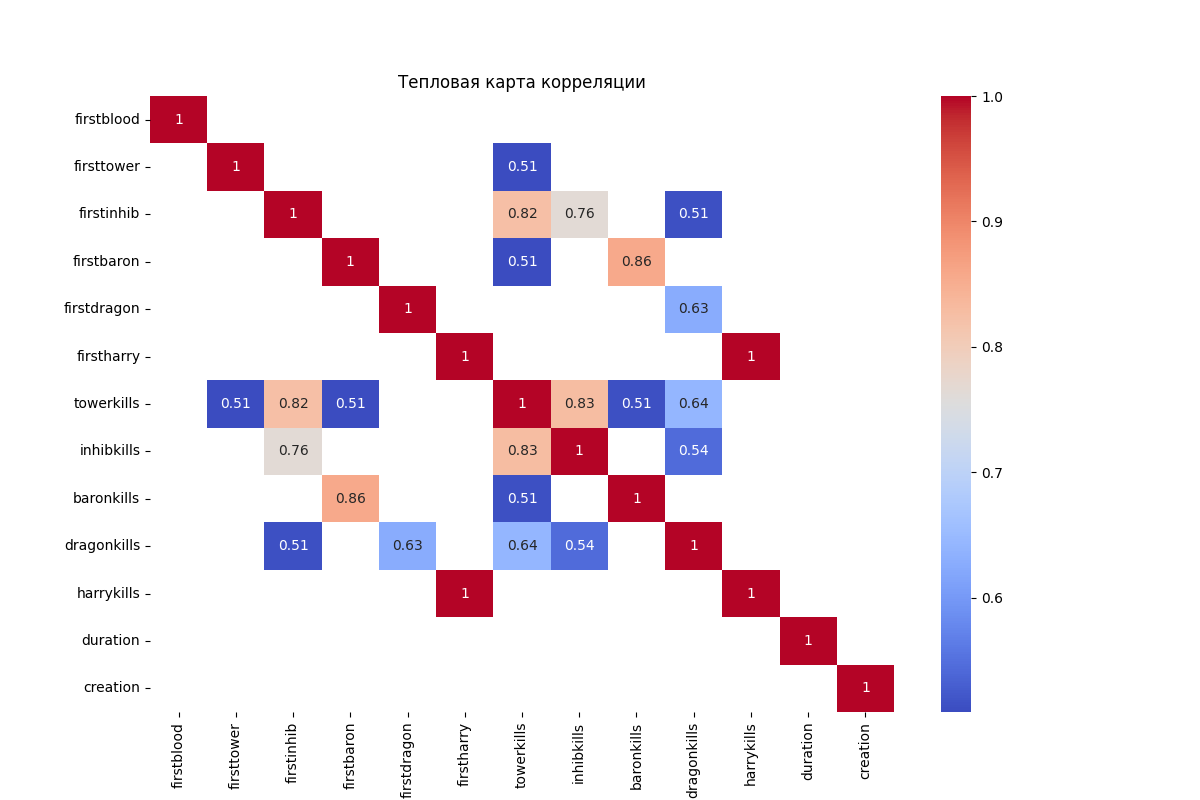
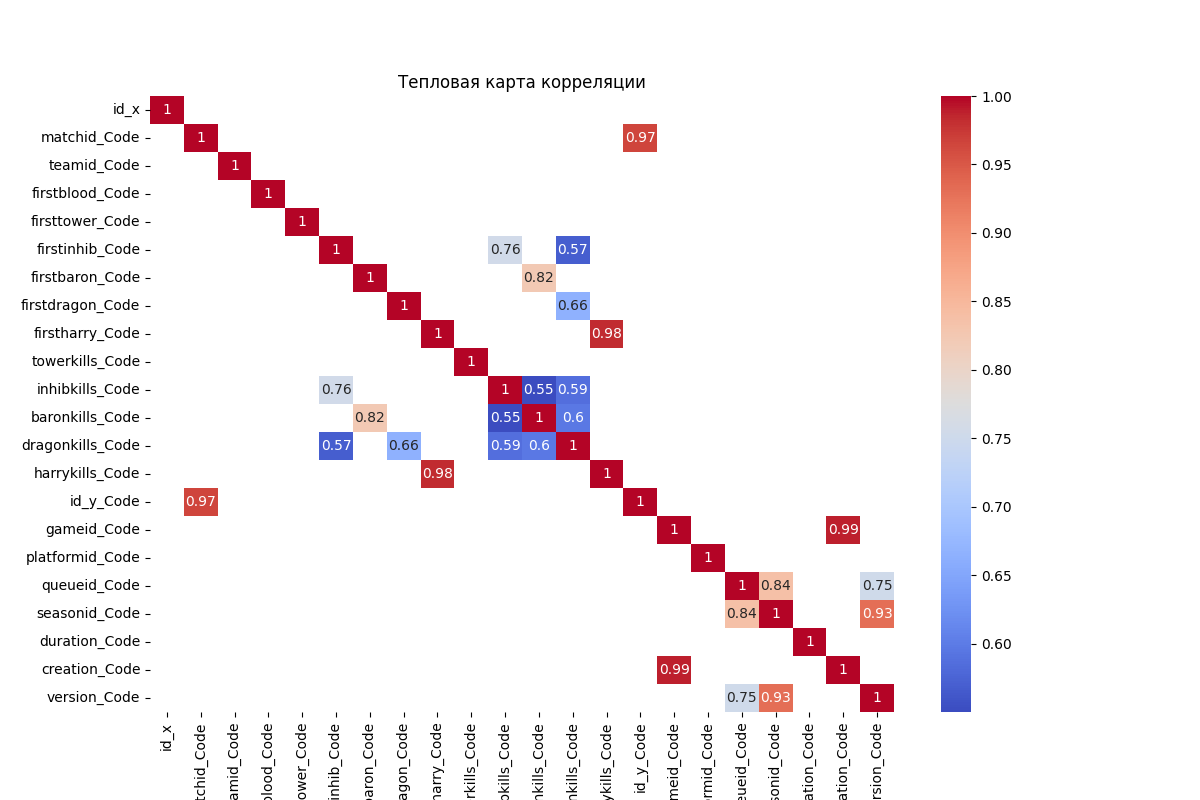
statistic cahracteristics

diff --git a/DS/web/templates/select_columns.html b/DS/web/templates/select_columns.html
@@ -1,43 +1,75 @@
-<!doctype html>
+<!DOCTYPE html>
 <html lang="en">
 <head>
-    <meta charset="utf-8">
-    <title>Select Columns</title>
+    <meta charset="UTF-8">
+    <meta name="viewport" content="width=device-width, initial-scale=1.0">
+    <title>Выбор столбцов</title>
 </head>
 <body>
-    <h1>Выберите числовые поля из {{ table }}</h1>
-    <form action="/plot" method="post">
+    <h1>Столбцы таблицы: {{ table }}</h1>
+    <form method="POST" action="/plot">
+        <label for="columns">Выберите столбцы для графика:</label><br>
+
+            {% for column, stats in statistics.items() %}
+                <input type="checkbox" name="columns" value="{{ column }}">{{ column }}<br>
+            {% endfor %}
+        <br><br>
+        
         <input type="hidden" name="table" value="{{ table }}">
-        <table>
-            <tr>
-                <td>
-                    <strong>Not IDs</strong><br>
-                    {% for column in not_ids %}
-                        <input type="checkbox" name="columns" value="{{ column }}">{{ column }}<br>
-                    {% endfor %}
-                </td>
-                <td>
-                    <strong>IDs</strong><br>
-                    {% for column in ids %}
-                        <input type="checkbox" name="columns" value="{{ column }}">{{ column }}<br>
-                    {% endfor %}
-                </td>
-            </tr>
-        </table>
-        {% if heatmap %}
-            <input type="submit" value="Построить график">
-        {% endif %}
+        <input type="submit">Построить график</button>
     </form>
+
+    <h2>Статистические характеристики столбцов:</h2>
+    <table border="1">
+        <thead>
+            <tr>
+                <th>Столбец</th>
+                <th>Доля пропусков</th>
+                <th>Макс.</th>
+                <th>Мин.</th>
+                <th>Среднее</th>
+                <th>Медиана</th>
+                <th>Дисперсия</th>
+                <th>Квантиль 0.1</th>
+                <th>Квантиль 0.9</th>
+                <th>Квартиль 1</th>
+                <th>Квартиль 3</th>
+                <th>Уникальные значения</th>
+                <th>Мода</th>
+            </tr>
+        </thead>
+        <tbody>
+            {% for column, stats in statistics.items() %}
+                <tr>
+                    <td>{{ column }}</td>
+                    <td>
+                        {% if stats.missing_ratio is not none %}
+                            {{ "{:.2f}".format(stats.missing_ratio) }}
+                        {% else %}
+                            -
+                        {% endif %}
+                    </td>
+                    <td>{{ stats.max if stats.max is not none else '-' }}</td>
+                    <td>{{ stats.min if stats.min is not none else '-' }}</td>
+                    <td>{{ stats.mean if stats.mean is not none else '-' }}</td>
+                    <td>{{ stats.median if stats.median is not none else '-' }}</td>
+                    <td>{{ stats.variance if stats.variance is not none else '-' }}</td>
+                    <td>{{ stats.quantile_0_1 if stats.quantile_0_1 is not none else '-' }}</td>
+                    <td>{{ stats.quantile_0_9 if stats.quantile_0_9 is not none else '-' }}</td>
+                    <td>{{ stats.quartile_1 if stats.quartile_1 is not none else '-' }}</td>
+                    <td>{{ stats.quartile_3 if stats.quartile_3 is not none else '-' }}</td>
+                    <td>{{ stats.unique_count if 'unique_count' in stats else '-' }}</td>
+                    <td>{{ stats.mode if 'mode' in stats else '-' }}</td>
+                </tr>
+            {% endfor %}
+        </tbody>
+    </table>
+
     {% if heatmap %}
-        <h2>Тепловая карта корреляции</h2>
-        <img src="{{ heatmap }}" alt="Correlation Heatmap">
-    {% else %}
-        <div>
-            Числовые поля не были найдены
-        </div>
+        <h2>Тепловая карта корреляции:</h2>
+        <img src="{{ heatmap }}" alt="Тепловая карта корреляции">
     {% endif %}
 
-    <br>
-    <a href="/">Назад к таблицам</a>
+    <a href="/">Вернуться на главную</a>
 </body>
 </html>

diff --git a/DS/web/main.py b/DS/web/main.py
@@ -1,3 +1,4 @@
+from sklearn.calibration import LabelEncoder
 from flask import Flask, render_template, request
 import psycopg2
 import pandas as pd
@@ -12,7 +13,7 @@ def create_app():
         connection = psycopg2.connect(
             user = 'postgres',
             password = '123Secret_a',
-            host = 'postgres',
+            host = 'localhost',
             port = '5432',
             database = 'loldb'
         )
@@ -47,36 +48,80 @@ def create_app():
         table_name = request.form['table']
         df = dataframes[table_name]
         
-        numeric = {str(x):False for x in df.columns}
-        for column in df.columns:
-            try:
-                df[column] = pd.to_numeric(df[column])
-                numeric[column]=True
-            except ValueError:
-                numeric[column]=False
-        heatmap = ""
-        if not any(numeric.values()):
-            return render_template('select_columns.html', table=table_name, columns=not_ids, heatmap=heatmap)
-        ids = []
-        not_ids = []
-        for x in df.columns:
-            if "id" not in x and numeric[x]:
-                not_ids.append(x)
-            else:
-                ids.append(x)
-        if(len(not_ids)>0):
+        # Нормализация данных
+        num_vars = df.select_dtypes(include=['float64', 'int64'])
+        cat_vars = df.select_dtypes(include=['object'])
+        print(num_vars)
+        print(cat_vars)
+        statistics = {}
+        
+        # Обработка числовых переменных
+        for column in num_vars.columns:
+            missing_ratio = num_vars[column].isnull().mean()
+            max_val = num_vars[column].max()
+            min_val = num_vars[column].min()
+            mean_val = num_vars[column].mean()
+            median_val = num_vars[column].median()
+            variance = num_vars[column].var()
+            quantile_0_1 = num_vars[column].quantile(0.1)
+            quantile_0_9 = num_vars[column].quantile(0.9)
+            quartile_1 = num_vars[column].quantile(0.25)
+            quartile_3 = num_vars[column].quantile(0.75)
+
+            # Заполнение пропусков
+            if missing_ratio > 0:
+                df[column] = df[column].fillna(mean_val)
+
+            statistics[column] = {
+                'missing_ratio': missing_ratio.item(),
+                'max': max_val.item(),
+                'min': min_val.item(),
+                'mean': mean_val.item(),
+                'median': median_val.item(),
+                'variance': variance.item(),
+                'quantile_0_1': quantile_0_1.item(),
+                'quantile_0_9': quantile_0_9.item(),
+                'quartile_1': quartile_1.item(),
+                'quartile_3': quartile_3.item()
+            }
+            print(statistics)
+        
+        # Обработка категориальных переменных
+        le = LabelEncoder()
+        for column in cat_vars.columns:
+            missing_ratio = cat_vars[column].isnull().mean()
+            unique_count = cat_vars[column].nunique()
+            mode = cat_vars[column].mode()[0]
+
+            # Применяем Label Encoding
+            df[f'{column}_Code'] = le.fit_transform(df[column])
+            df.drop(column, axis=1, inplace=True)
+
+            statistics[f'{column}_Code'] = {
+                'missing_ratio': missing_ratio.item(),
+                'unique_count': unique_count,
+                'mode': mode
+            }
+            print(statistics)
+        print("KEYS")
+        print(list(statistics.keys()))
+        print(df.columns)
+        if len(statistics) > 0:
             plt.figure(figsize=(12, 8))
-            corr_matrix = df[not_ids].corr()
+            corr_matrix = df[list(statistics.keys())].corr()
+            print(corr_matrix)
+            print(statistics)
             threshold = 0.5
 
             filtered_corr_matrix = corr_matrix[corr_matrix.abs() > threshold].dropna(how='all', axis=0).dropna(how='all', axis=1)
             sns.heatmap(filtered_corr_matrix, annot=True, cmap='coolwarm')
             plt.title('Тепловая карта корреляции')
-            plt.savefig('./web/static/correlation_heatmap.png')
+            plt.savefig('./static/correlation_heatmap.png')
             heatmap = './static/correlation_heatmap.png'
             plt.close()
-        
-        return render_template('select_columns.html', table=table_name, not_ids=not_ids, ids=ids, heatmap=heatmap)
+
+        return render_template('select_columns.html', table=table_name, not_ids=statistics.keys(), heatmap=heatmap, statistics=statistics)
+
 
     @app.route('/plot', methods=['POST'])
     def plot():
@@ -84,7 +129,7 @@ def create_app():
         selected_columns = request.form.getlist('columns')
         df = dataframes[table_name][selected_columns]
         sns.pairplot(df, diag_kind='kde')
-        plt.savefig('./web/static/plot.png')
+        plt.savefig('./static/plot.png')
         plt.close()
         
         return render_template('plot.html', plot='./static/plot.png', table=table_name)
